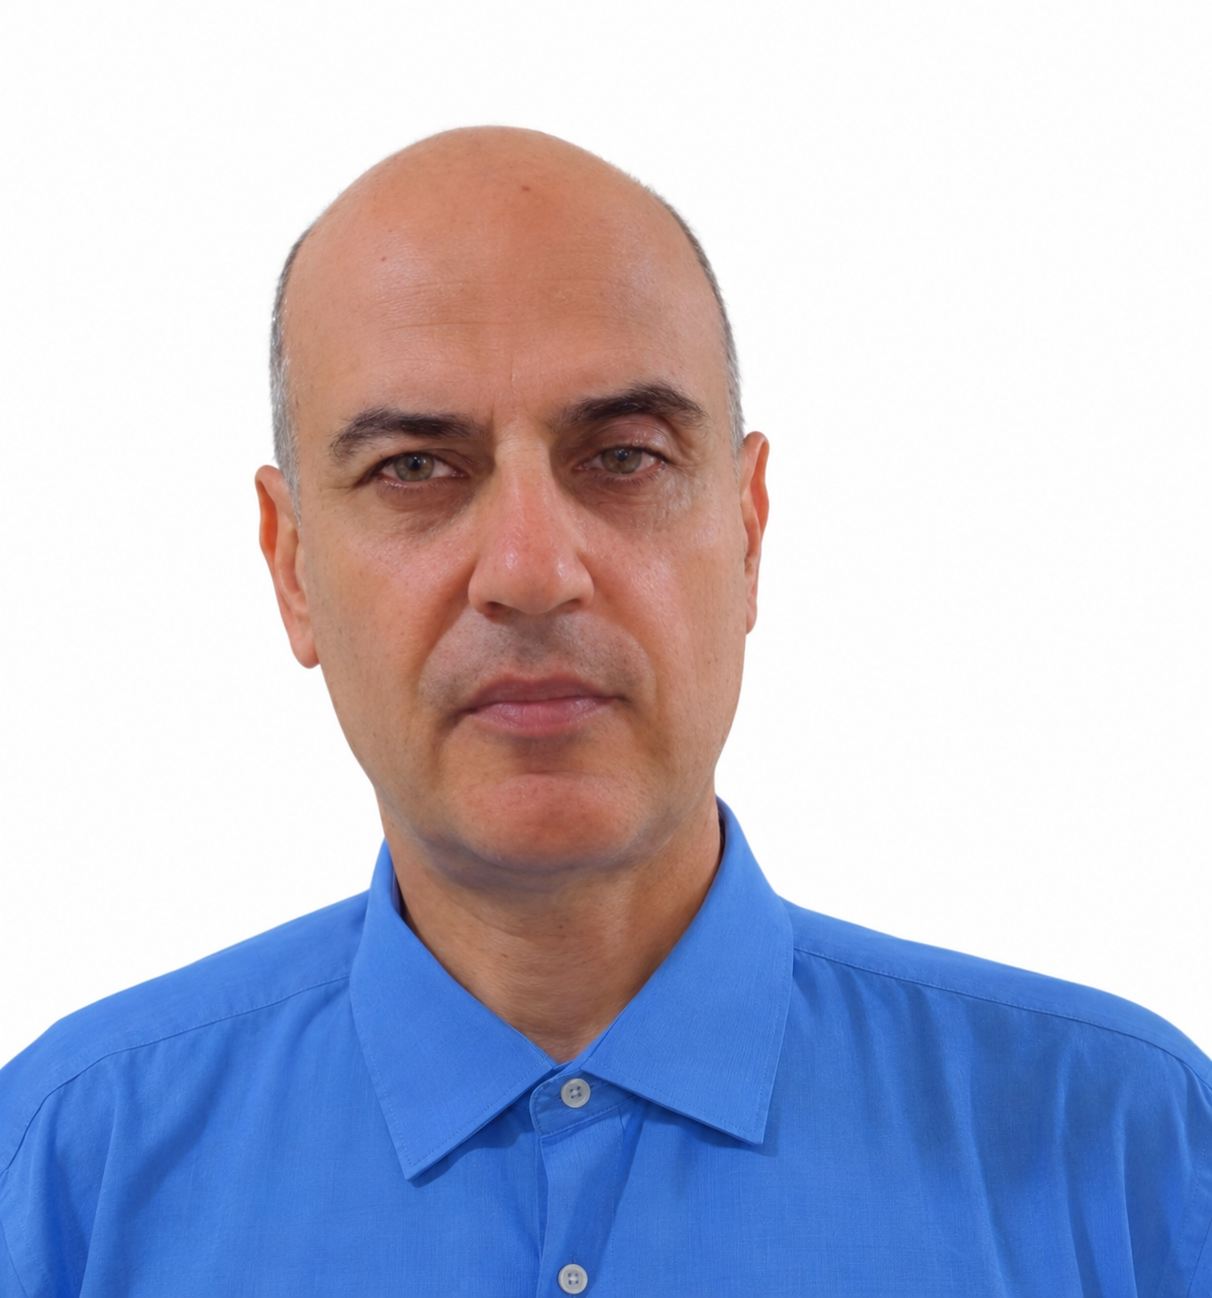
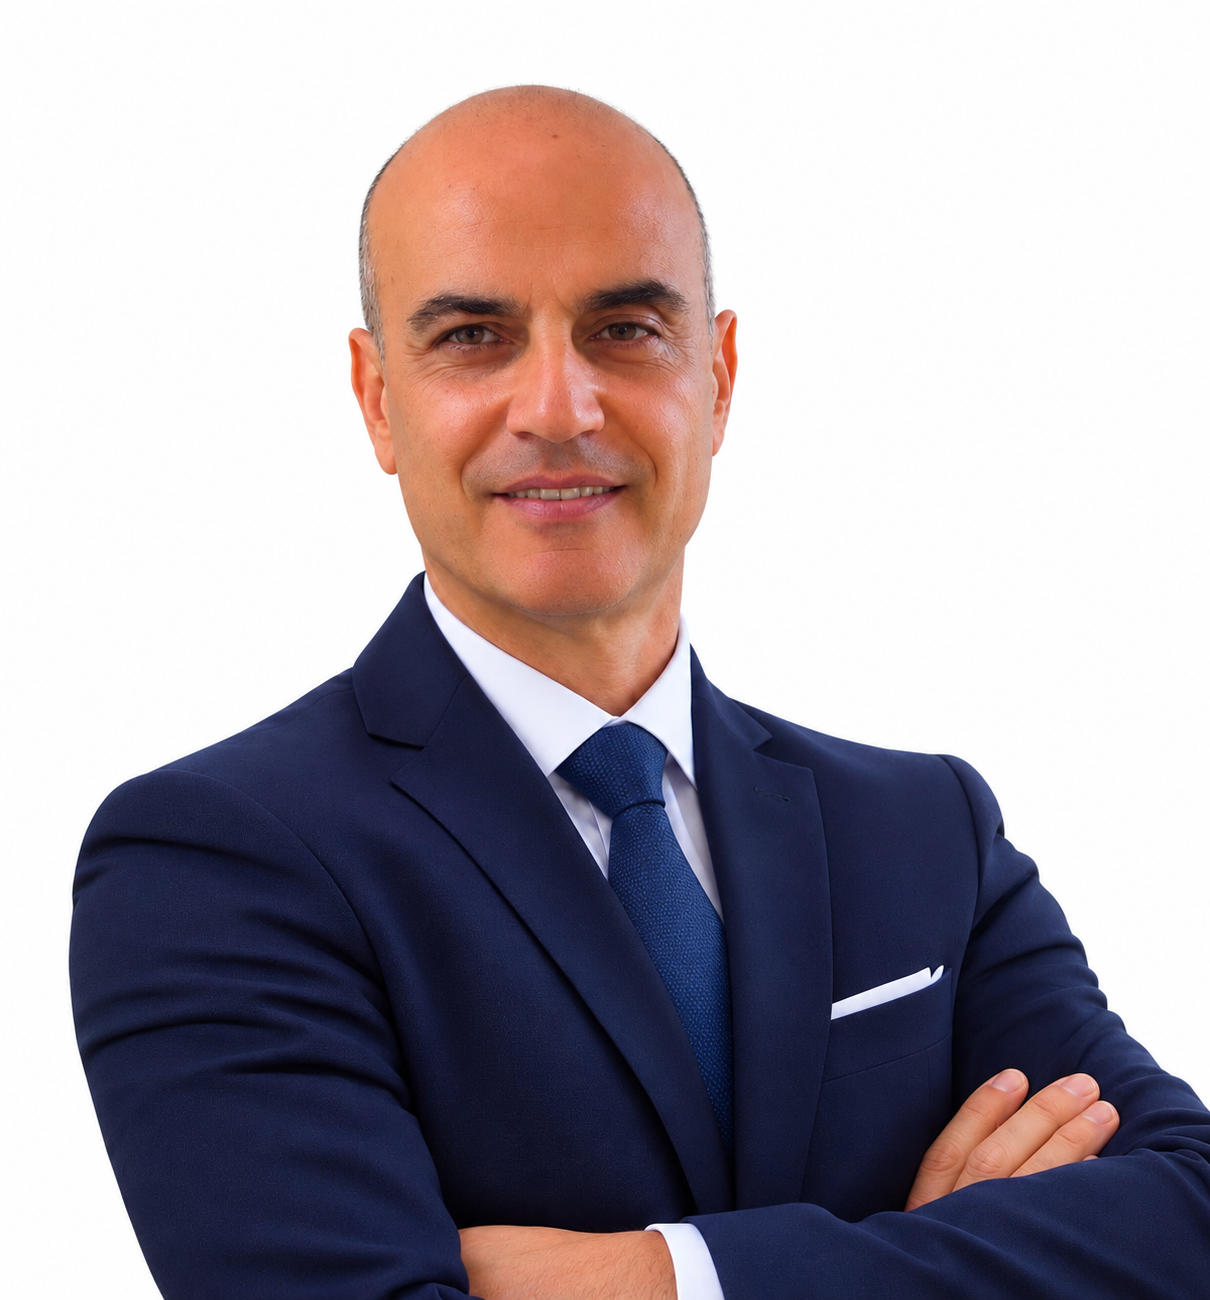
Update Giovanni portrait and board layout

diff --git a/src/app/board-of-directors/page.tsx b/src/app/board-of-directors/page.tsx
@@ -142,7 +142,7 @@ export default function BoardOfDirectorsPage() {
 
       <section aria-label="Directors" className="px-6 py-10 sm:py-16 lg:px-8">
         <div className="mx-auto max-w-7xl">
-          {directors.map((director, index) => (
+          {directors.map((director) => (
             <article
               key={director.name}
               className="grid gap-x-10 gap-y-8 border-b border-stone-300/80 py-12 first:pt-4 last:border-0 sm:py-16 md:grid-cols-[minmax(180px,240px)_minmax(0,1fr)] lg:gap-x-16"
@@ -151,10 +151,7 @@ export default function BoardOfDirectorsPage() {
                 <Portrait name={director.name} initials={director.initials} src={director.portrait} position={director.portraitPosition} />
               </div>
               <div>
-                <div className="flex flex-wrap items-baseline gap-x-4 gap-y-2">
-                  <span className="text-xs font-semibold uppercase tracking-[0.2em] text-amber-800">{String(index + 1).padStart(2, '0')}</span>
-                  <span className="text-xs font-semibold uppercase tracking-[0.15em] text-stone-500">{director.classification || 'Board member'}</span>
-                </div>
+                <p className="text-xs font-semibold uppercase tracking-[0.15em] text-stone-500">{director.classification || 'Board member'}</p>
                 <h2 className="mt-4 font-serif text-3xl font-medium leading-tight tracking-tight text-green-950 sm:text-4xl">{director.name}</h2>
                 <p className="mt-2 text-sm font-semibold uppercase tracking-[0.1em] text-amber-800">{director.title}</p>
                 <div className="mt-7 max-w-3xl space-y-4 text-[15px] leading-7 text-stone-700 sm:text-base sm:leading-8">
